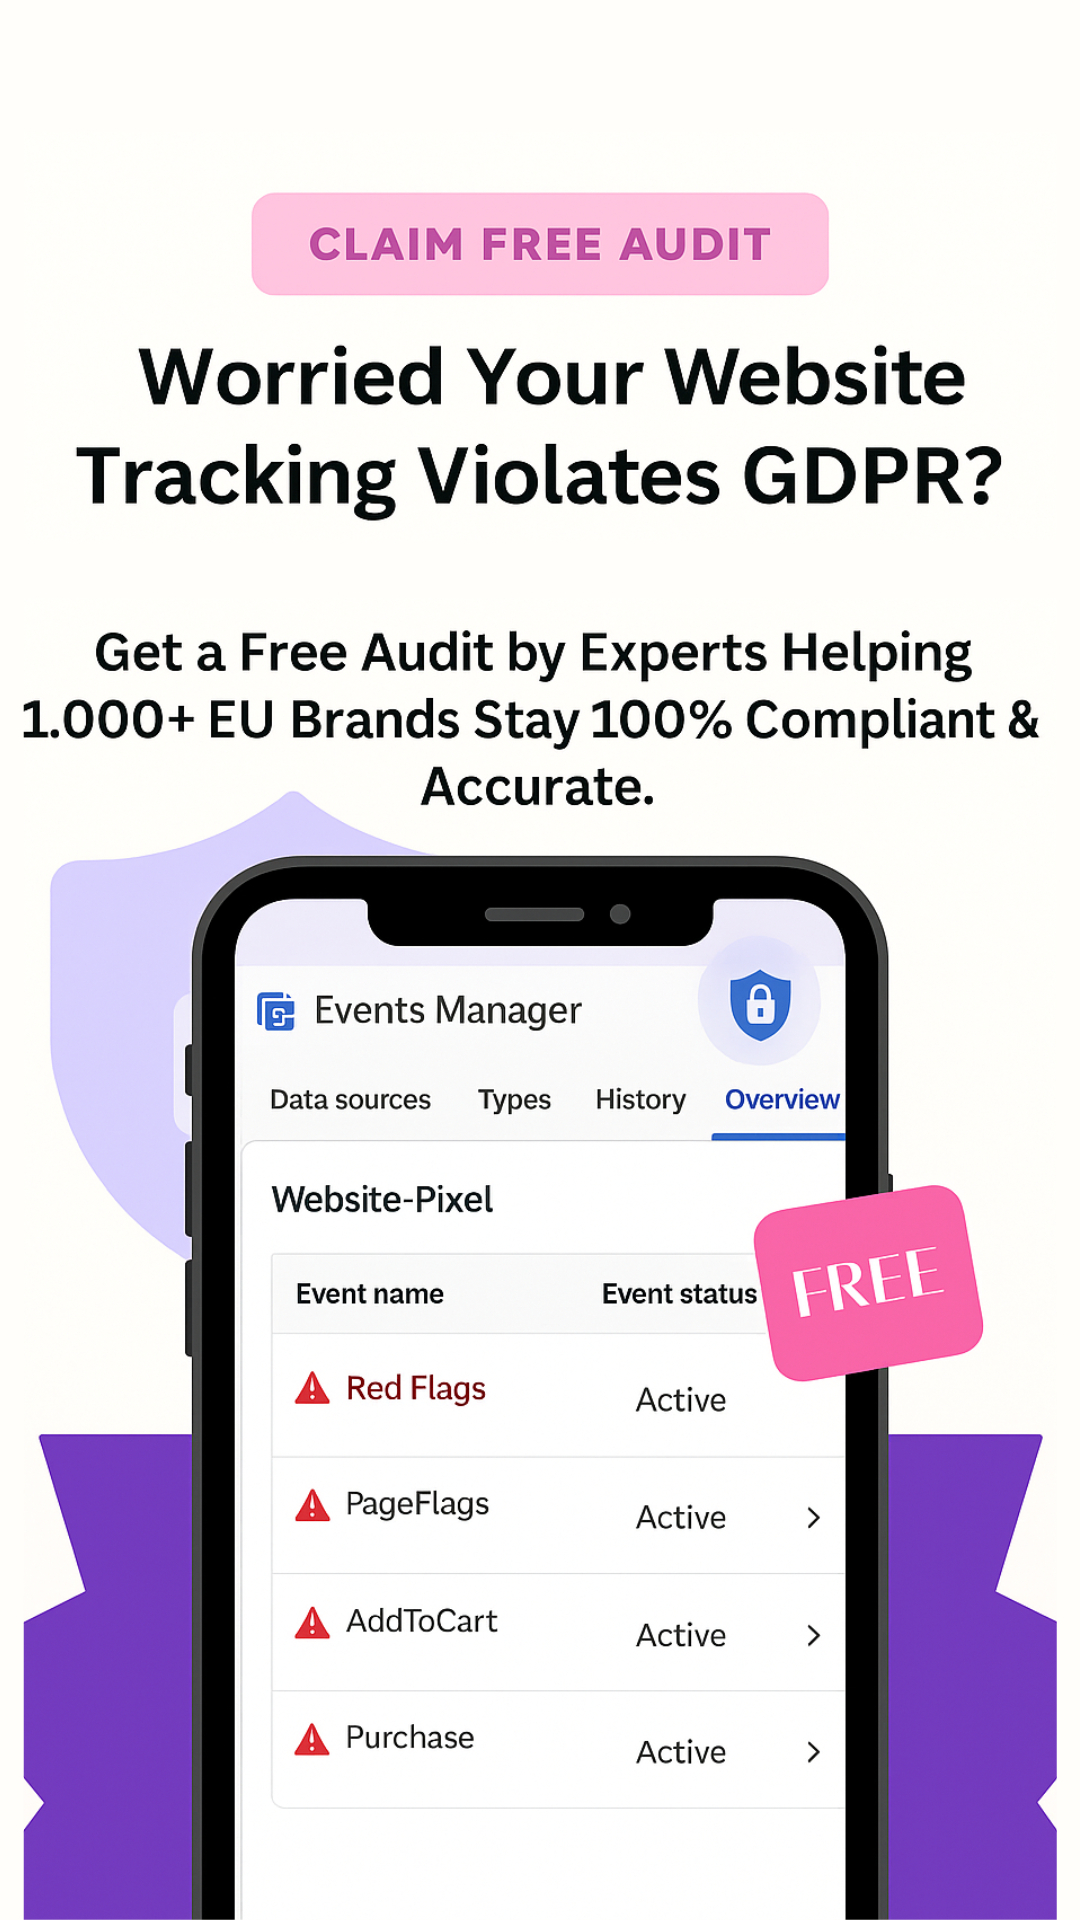
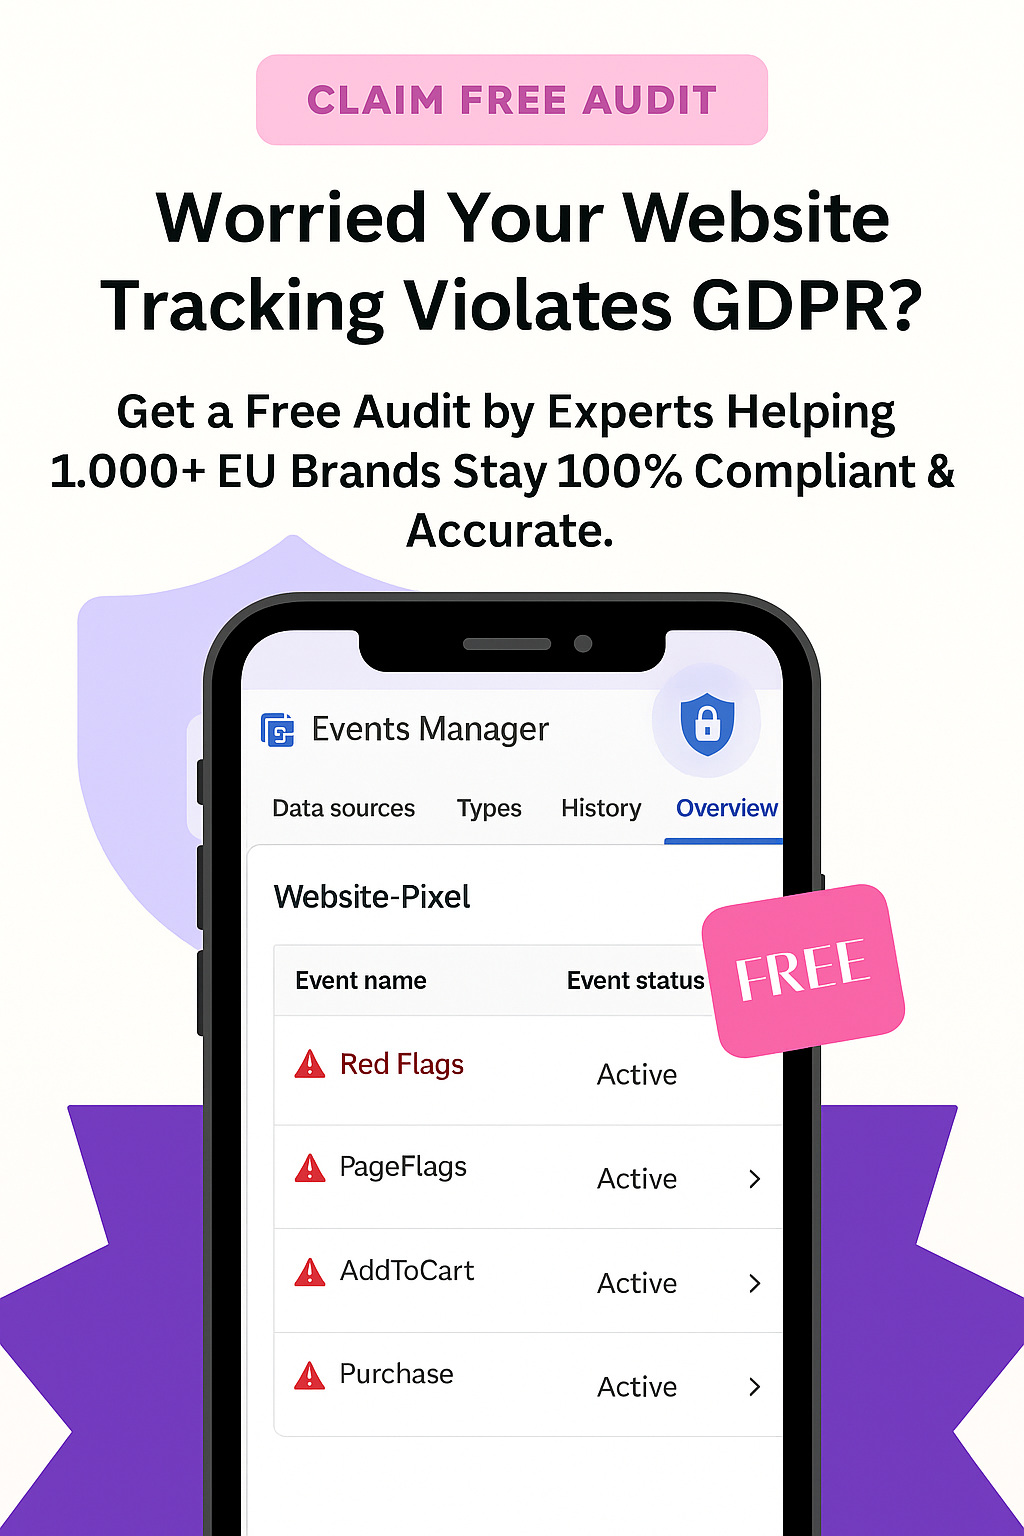
Made image short and updated bg colors

diff --git a/app/lead-magnets/free-website-audit/page.tsx b/app/lead-magnets/free-website-audit/page.tsx
@@ -237,8 +237,8 @@ export default function HomePage() {
         }
         supportingComponent={
           <Image
-            height="1920"
-            width="1080"
+            height="1536"
+            width="1024"
             src="/images/hero/audit-creative.png"
             alt="audit Craetive"
             className="bg-primary rounded border shadow"
